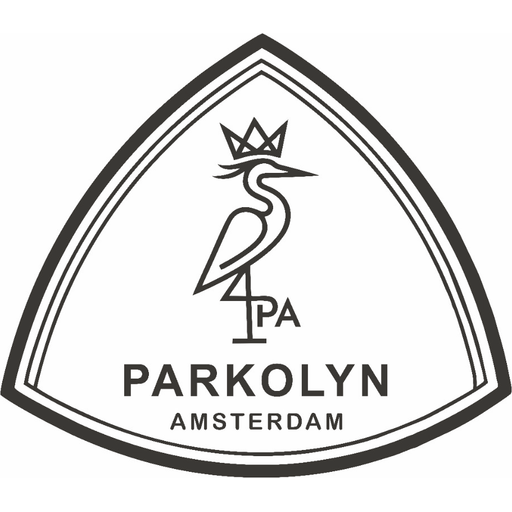
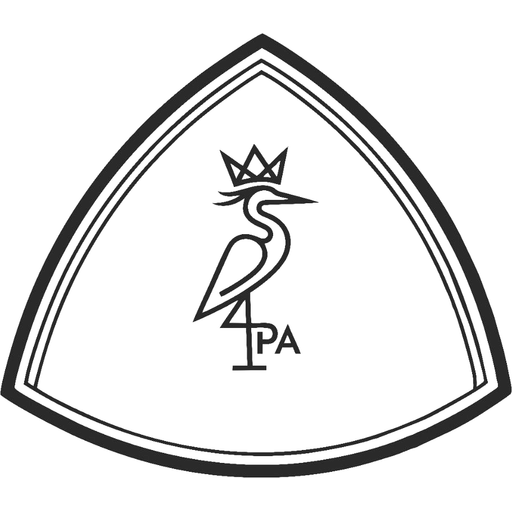
Header: text-free emblem, separate brand name, red strip
Added a crest version with the embedded name erased and the emblem
re-centered in the badge, used in header, footer and favicon; the brand
name is now written beside it as text, like the client's reference site.
Added a red strip and dark band under the logo row (mobile hamburger
moved to the left), plus a crimson theme color. Kept "Amsterdam" in
neutral gray per client feedback.

Changed region(s): [[0.2188, 0.2188, 0.7812, 0.8438]]

diff --git a/components/Header.js b/components/Header.js
@@ -58,21 +58,34 @@ export default function Header() {
     >
       {/* Logo row */}
       <div className={`grid grid-cols-[1fr_auto_1fr] items-center container-px transition-all duration-300 ${scrolled ? "py-2.5" : "py-4"}`}>
-        <div />
+        <div className="flex items-center justify-start">
+          <button
+            className="text-ink lg:hidden"
+            aria-label="Toggle menu"
+            onClick={() => setMobileOpen((v) => !v)}
+          >
+            <svg width="22" height="22" viewBox="0 0 24 24" fill="none" stroke="currentColor" strokeWidth="1.5">
+              {mobileOpen ? (
+                <path d="M6 6l12 12M6 18L18 6" strokeLinecap="round" />
+              ) : (
+                <path d="M4 7h16M4 12h16M4 17h16" strokeLinecap="round" />
+              )}
+            </svg>
+          </button>
+        </div>
 
-        <Link href="/" className="group flex items-center justify-center gap-3" onClick={() => setMobileOpen(false)}>
+        <Link href="/" className="group flex items-center justify-center" onClick={() => setMobileOpen(false)}>
           <motion.div
             initial={{ opacity: 0, scale: 0.92 }}
             animate={{ opacity: 1, scale: 1 }}
-            whileHover={{ scale: 1.04 }}
+            whileHover={{ scale: 1.03 }}
             transition={{ duration: 0.6, ease: [0.16, 1, 0.3, 1] }}
             className="flex items-center gap-3"
           >
-            <Image src="/brand/crest.png" alt="" width={200} height={200} quality={100} className={`object-contain transition-all duration-300 ${scrolled ? "h-8 w-8" : "h-10 w-10"}`} />
+            <Image src="/brand/crest-mark.png" alt="" width={200} height={200} quality={100} className={`object-contain transition-all duration-300 ${scrolled ? "h-9 w-9" : "h-12 w-12"}`} />
             <span className="flex flex-col items-start leading-none">
               <span className="font-brand text-2xl uppercase tracking-[0.06em] text-ink sm:text-3xl">Parkolyn</span>
-              <span className="mt-1.5 h-px w-full bg-gradient-to-r from-transparent via-gold to-transparent opacity-80 transition-opacity duration-300 group-hover:opacity-100" />
-              <span className="mt-1.5 text-[8px] uppercase tracking-[0.35em] text-ink-dim sm:text-[9px]">Amsterdam</span>
+              <span className="mt-1.5 text-[9px] font-medium uppercase tracking-[0.4em] text-ink-dim sm:text-[10px]">Amsterdam</span>
             </span>
           </motion.div>
         </Link>
@@ -98,24 +111,13 @@ export default function Header() {
               </motion.span>
             )}
           </button>
-
-          <button
-            className="text-ink lg:hidden"
-            aria-label="Toggle menu"
-            onClick={() => setMobileOpen((v) => !v)}
-          >
-            <svg width="22" height="22" viewBox="0 0 24 24" fill="none" stroke="currentColor" strokeWidth="1.5">
-              {mobileOpen ? (
-                <path d="M6 6l12 12M6 18L18 6" strokeLinecap="round" />
-              ) : (
-                <path d="M4 7h16M4 12h16M4 17h16" strokeLinecap="round" />
-              )}
-            </svg>
-          </button>
         </div>
       </div>
 
-      {/* Bold nav bar */}
+      {/* Red strip + thin gap, then the dark bar (nav links on desktop) */}
+      <div className="h-1.5 bg-crimson" />
+      <div className="h-[3px] bg-paper" />
+      <div className="h-2 bg-ink lg:hidden" />
       <nav className="hidden bg-ink lg:block">
         <div className="container-px flex items-center justify-center gap-10 py-3">
           {NAV_LINKS.map((link) => (

diff --git a/components/Footer.js b/components/Footer.js
@@ -6,13 +6,13 @@ export default function Footer() {
     <footer className="border-t hairline bg-paper-soft">
       <div className="container-px grid gap-12 py-16 md:grid-cols-4">
         <div className="md:col-span-2">
-          <Image src="/brand/crest.png" alt="Parkolyn Amsterdam crest" width={200} height={200} quality={100} className="h-11 w-11 object-contain" />
+          <Image src="/brand/crest-mark.png" alt="Parkolyn Amsterdam crest" width={200} height={200} quality={100} className="h-14 w-14 object-contain" />
           <span className="mt-3 block">
             <span className="flex items-baseline gap-2">
               <span className="font-brand text-2xl uppercase tracking-[0.06em] text-ink">Parkolyn</span>
-              <span className="text-[9px] uppercase tracking-[0.3em] text-ink-dim">Amsterdam</span>
+              <span className="text-[9px] font-medium uppercase tracking-[0.35em] text-ink-dim">Amsterdam</span>
             </span>
-            <span className="mt-1.5 block h-px w-28 bg-gradient-to-r from-gold to-transparent" />
+            <span className="mt-1.5 block h-px w-28 bg-gradient-to-r from-ink/40 to-transparent" />
           </span>
           <p className="mt-4 max-w-sm text-sm leading-relaxed text-ink-dim">
             Parkolyn Amsterdam crafts fragrance built around one idea: a scent

diff --git a/app/globals.css b/app/globals.css
@@ -10,6 +10,7 @@
   --color-gold: #96742a;
   --color-gold-light: #d4b876;
   --color-gold-deep: #6b5220;
+  --color-crimson: #b01232;
 }
 
 @theme inline {
@@ -22,6 +23,7 @@
   --color-gold: var(--color-gold);
   --color-gold-light: var(--color-gold-light);
   --color-gold-deep: var(--color-gold-deep);
+  --color-crimson: var(--color-crimson);
   --font-serif: var(--font-playfair);
   --font-brand: var(--font-brand);
   --font-sans: var(--font-inter);
